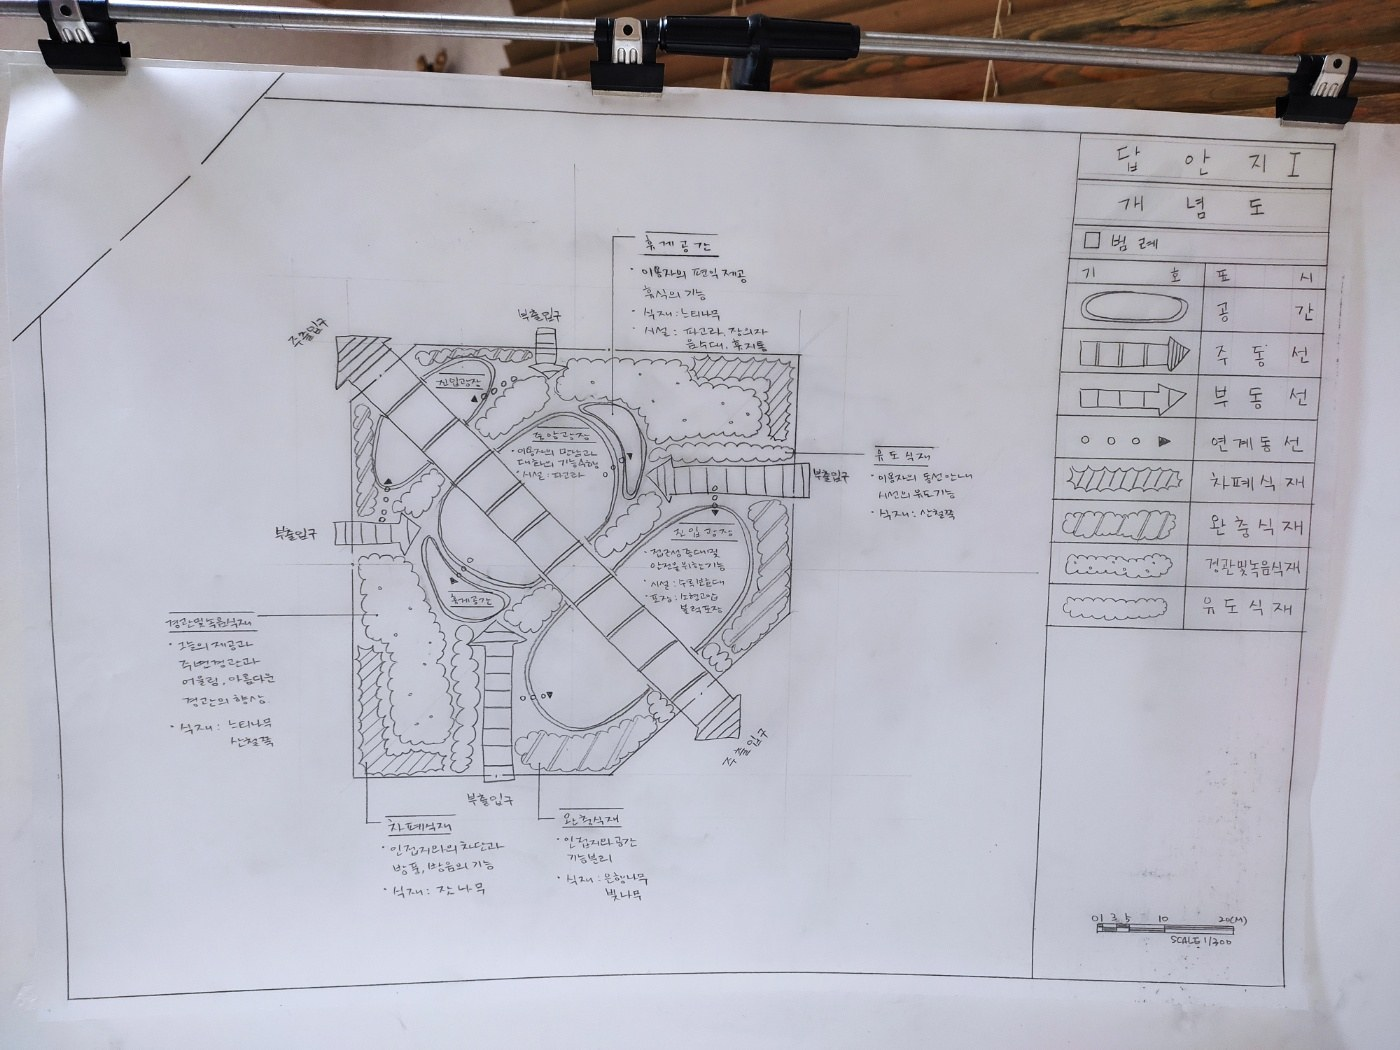
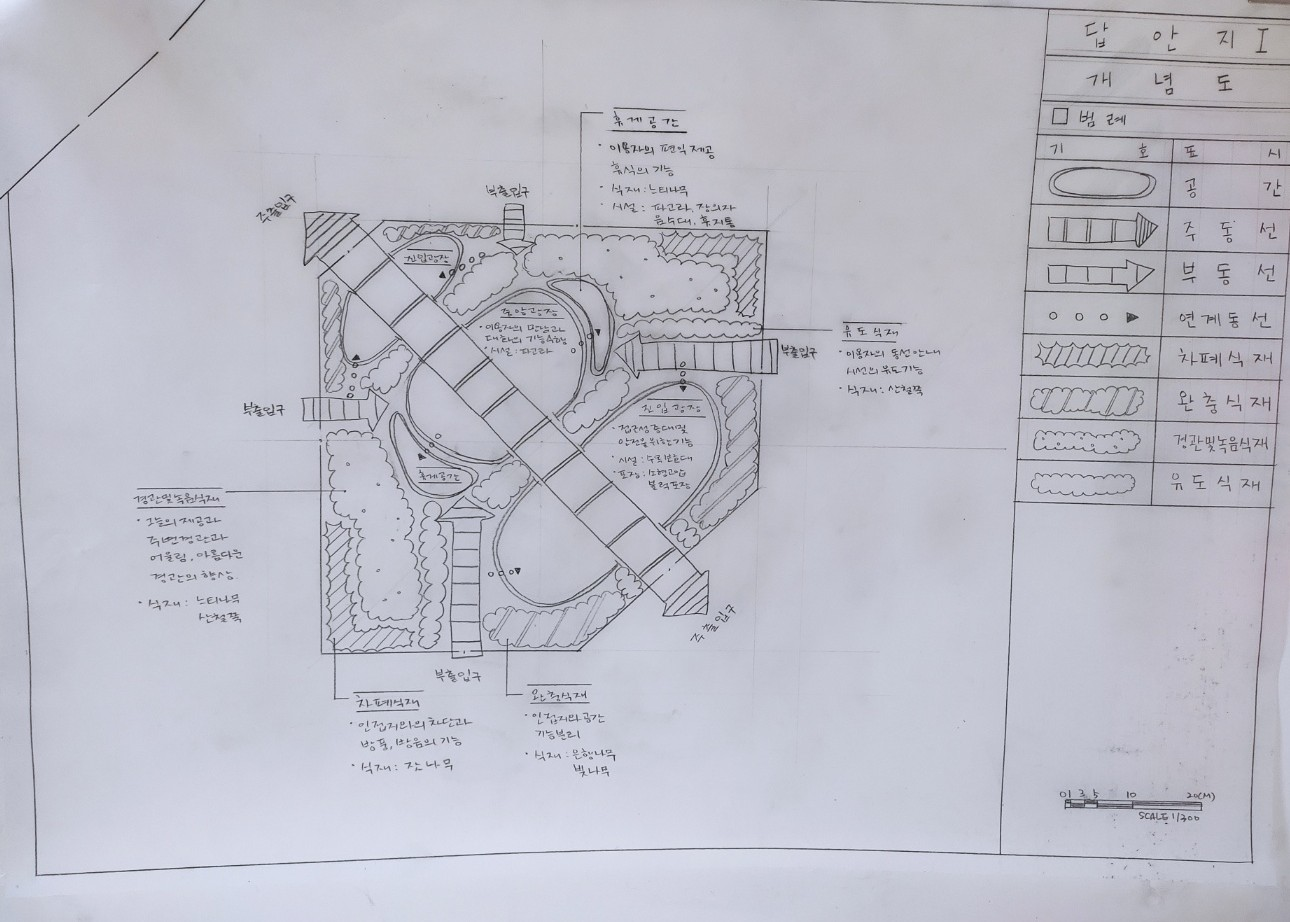
작업형 도면 보기: 검은 화면에 도면만, 휠·두 번 누르기·핀치 확대, 끌어 이동, 앞뒤 넘기기 + 287 사진을 도면지 부분만 잘라냄

diff --git a/templates/gisa/essay_work.html b/templates/gisa/essay_work.html
@@ -77,10 +77,26 @@
     .tk-imgs figure { margin: 0; border: 1px solid #e3e9e4; border-radius: 8px; overflow: hidden; background: #fff; }
     .tk-imgs img { display: block; width: 100%; cursor: zoom-in; }
     .tk-imgs figcaption { font-size: 0.78rem; text-align: center; padding: 4px; color: #333; }
-    .zoom { position: fixed; inset: 0; background: rgba(0,0,0,.85); z-index: 300; display: flex;
-        align-items: center; justify-content: center; padding: 14px; overflow: auto; }
+    /* 도면 보기 — 검은 화면에 도면만. 휠·두 번 누르기로 확대, 끌어서 이동 */
+    .zoom { position: fixed; inset: 0; background: #0d0f0e; z-index: 300; overflow: hidden;
+        touch-action: none; user-select: none; -webkit-user-select: none; }
     .zoom[hidden] { display: none; }
-    .zoom img { max-width: 100%; max-height: 94vh; background: #fff; }
+    .zoom img { position: absolute; left: 0; top: 0; transform-origin: 0 0; max-width: none;
+        cursor: grab; will-change: transform; }
+    .zoom.drag img { cursor: grabbing; }
+    .zv-bar { position: absolute; left: 0; right: 0; top: 0; display: flex; align-items: center; gap: 8px;
+        padding: 10px 12px; background: linear-gradient(#000c, #0000); color: #fff; z-index: 2; }
+    .zv-cap { font-size: 0.9rem; font-weight: 700; flex: 1; min-width: 0; overflow: hidden;
+        text-overflow: ellipsis; white-space: nowrap; }
+    .zv-btn { border: 0; background: rgba(255,255,255,.16); color: #fff; font-size: 1rem; font-weight: 800;
+        min-width: 38px; height: 34px; border-radius: 17px; cursor: pointer; font-family: inherit; padding: 0 10px; }
+    .zv-btn:hover { background: rgba(255,255,255,.3); }
+    .zv-nav { position: absolute; top: 50%; transform: translateY(-50%); z-index: 2; width: 44px; height: 64px;
+        font-size: 1.6rem; border-radius: 10px; }
+    .zv-prev { left: 8px; } .zv-next { right: 8px; }
+    .zv-hint { position: absolute; left: 50%; bottom: 12px; transform: translateX(-50%); z-index: 2;
+        font-size: 0.78rem; color: #cfd8d3; background: rgba(0,0,0,.55); padding: 4px 12px; border-radius: 12px;
+        white-space: nowrap; }
 
     /* 출제 빈도 막대 — 한 줄: 이름 | 막대(횟수 + 출제 회차 배지) | 평균 합격률 */
     .fq { background: #fff; border: 1px solid #c9d5cd; border-radius: 10px; padding: 6px 12px; }
@@ -345,7 +361,19 @@
     </div>
 </div>
 
-<div class="zoom" id="zoom" hidden onclick="this.hidden=true"><img alt=""></div>
+<div class="zoom" id="zoom" hidden>
+    <img alt="" id="zvImg" draggable="false">
+    <div class="zv-bar">
+        <span class="zv-cap" id="zvCap"></span>
+        <button type="button" class="zv-btn" id="zvOut" title="축소">−</button>
+        <button type="button" class="zv-btn" id="zvFit" title="화면에 맞추기">맞춤</button>
+        <button type="button" class="zv-btn" id="zvIn" title="확대">+</button>
+        <button type="button" class="zv-btn" id="zvClose" title="닫기 (Esc)">✕</button>
+    </div>
+    <button type="button" class="zv-btn zv-nav zv-prev" id="zvPrev" title="이전 도면 (←)">‹</button>
+    <button type="button" class="zv-btn zv-nav zv-next" id="zvNext" title="다음 도면 (→)">›</button>
+    <div class="zv-hint">휠·두 번 누르기로 확대 · 끌어서 이동 · Esc 닫기</div>
+</div>
 
 <script>
 document.querySelectorAll('.tab-btn').forEach(btn => {
@@ -383,12 +411,82 @@ tasksTab.querySelectorAll('.yc[data-key]').forEach(c => c.addEventListener('clic
 document.getElementById('pickClear').addEventListener('click', () => pick(picked, ''));
 document.querySelectorAll('.dw.has .dw-head').forEach(h =>
     h.addEventListener('click', () => h.parentElement.classList.toggle('open')));
-document.addEventListener('click', e => {
-    const img = e.target.closest('.tk-imgs img, .note-md img');
-    if (!img) return;
-    const z = document.getElementById('zoom');
-    z.querySelector('img').src = img.src;
-    z.hidden = false;
-});
+/* 도면 보기 — 같은 묶음(도면 자료 한 벌)의 사진끼리 앞뒤로 넘긴다 */
+(function () {
+    const z = document.getElementById('zoom'), im = document.getElementById('zvImg');
+    const cap = document.getElementById('zvCap');
+    let list = [], idx = 0, s = 1, x = 0, y = 0, fit = 1;
+    const apply = () => { im.style.transform = `translate(${x}px,${y}px) scale(${s})`; };
+    function fitView() {
+        const W = z.clientWidth, H = z.clientHeight - 56;
+        fit = Math.min(W / im.naturalWidth, H / im.naturalHeight);
+        s = fit; x = (W - im.naturalWidth * s) / 2; y = 56 + (H - im.naturalHeight * s) / 2; apply();
+    }
+    function zoomAt(k, cx, cy) {
+        const ns = Math.min(Math.max(s * k, fit * 0.8), fit * 8);
+        x = cx - (cx - x) * (ns / s); y = cy - (cy - y) * (ns / s); s = ns; apply();
+    }
+    function show(i) {
+        idx = (i + list.length) % list.length;
+        const src = list[idx];
+        cap.textContent = (src.alt || '') + (list.length > 1 ? `  (${idx + 1}/${list.length})` : '');
+        im.onload = fitView; im.src = src.currentSrc || src.src;
+        if (im.complete && im.naturalWidth) fitView();
+        document.getElementById('zvPrev').hidden = document.getElementById('zvNext').hidden = list.length < 2;
+    }
+    function open(img) {
+        const box = img.closest('.tk-imgs, .note-md');
+        list = box ? [...box.querySelectorAll('img')] : [img];
+        z.hidden = false; document.body.style.overflow = 'hidden';
+        show(list.indexOf(img));
+    }
+    function close() { z.hidden = true; document.body.style.overflow = ''; }
+    document.addEventListener('click', e => {
+        const img = e.target.closest('.tk-imgs img, .note-md img');
+        if (img) open(img);
+    });
+    document.getElementById('zvClose').onclick = close;
+    document.getElementById('zvFit').onclick = fitView;
+    document.getElementById('zvIn').onclick = () => zoomAt(1.5, z.clientWidth / 2, z.clientHeight / 2);
+    document.getElementById('zvOut').onclick = () => zoomAt(1 / 1.5, z.clientWidth / 2, z.clientHeight / 2);
+    document.getElementById('zvPrev').onclick = () => show(idx - 1);
+    document.getElementById('zvNext').onclick = () => show(idx + 1);
+    z.addEventListener('wheel', e => { e.preventDefault(); zoomAt(e.deltaY < 0 ? 1.2 : 1 / 1.2, e.clientX, e.clientY); },
+                       {passive: false});
+    im.addEventListener('dblclick', e => {
+        if (s > fit * 1.05) fitView(); else zoomAt(2.5, e.clientX, e.clientY);
+    });
+    // 끌기 — 마우스와 손가락 하나. 손가락 둘은 벌려서 확대
+    const pts = new Map(); let last = null, pinch = 0;
+    z.addEventListener('pointerdown', e => {
+        if (e.target.closest('.zv-btn')) return;
+        pts.set(e.pointerId, {x: e.clientX, y: e.clientY}); z.setPointerCapture(e.pointerId);
+        z.classList.add('drag'); last = {x: e.clientX, y: e.clientY};
+        if (pts.size === 2) { const [a, b] = [...pts.values()]; pinch = Math.hypot(a.x - b.x, a.y - b.y); }
+    });
+    z.addEventListener('pointermove', e => {
+        if (!pts.has(e.pointerId)) return;
+        pts.set(e.pointerId, {x: e.clientX, y: e.clientY});
+        if (pts.size === 2) {
+            const [a, b] = [...pts.values()], d = Math.hypot(a.x - b.x, a.y - b.y);
+            if (pinch) zoomAt(d / pinch, (a.x + b.x) / 2, (a.y + b.y) / 2);
+            pinch = d; return;
+        }
+        x += e.clientX - last.x; y += e.clientY - last.y; last = {x: e.clientX, y: e.clientY}; apply();
+    });
+    const up = e => { pts.delete(e.pointerId); if (!pts.size) z.classList.remove('drag'); pinch = 0;
+        const p = [...pts.values()][0]; if (p) last = {x: p.x, y: p.y}; };
+    z.addEventListener('pointerup', up); z.addEventListener('pointercancel', up);
+    document.addEventListener('keydown', e => {
+        if (z.hidden) return;
+        if (e.key === 'Escape') close();
+        else if (e.key === 'ArrowLeft') show(idx - 1);
+        else if (e.key === 'ArrowRight') show(idx + 1);
+        else if (e.key === '+' || e.key === '=') document.getElementById('zvIn').click();
+        else if (e.key === '-') document.getElementById('zvOut').click();
+        else if (e.key === '0') fitView();
+    });
+    window.addEventListener('resize', () => { if (!z.hidden) fitView(); });
+})();
 </script>
 {% endblock %}
